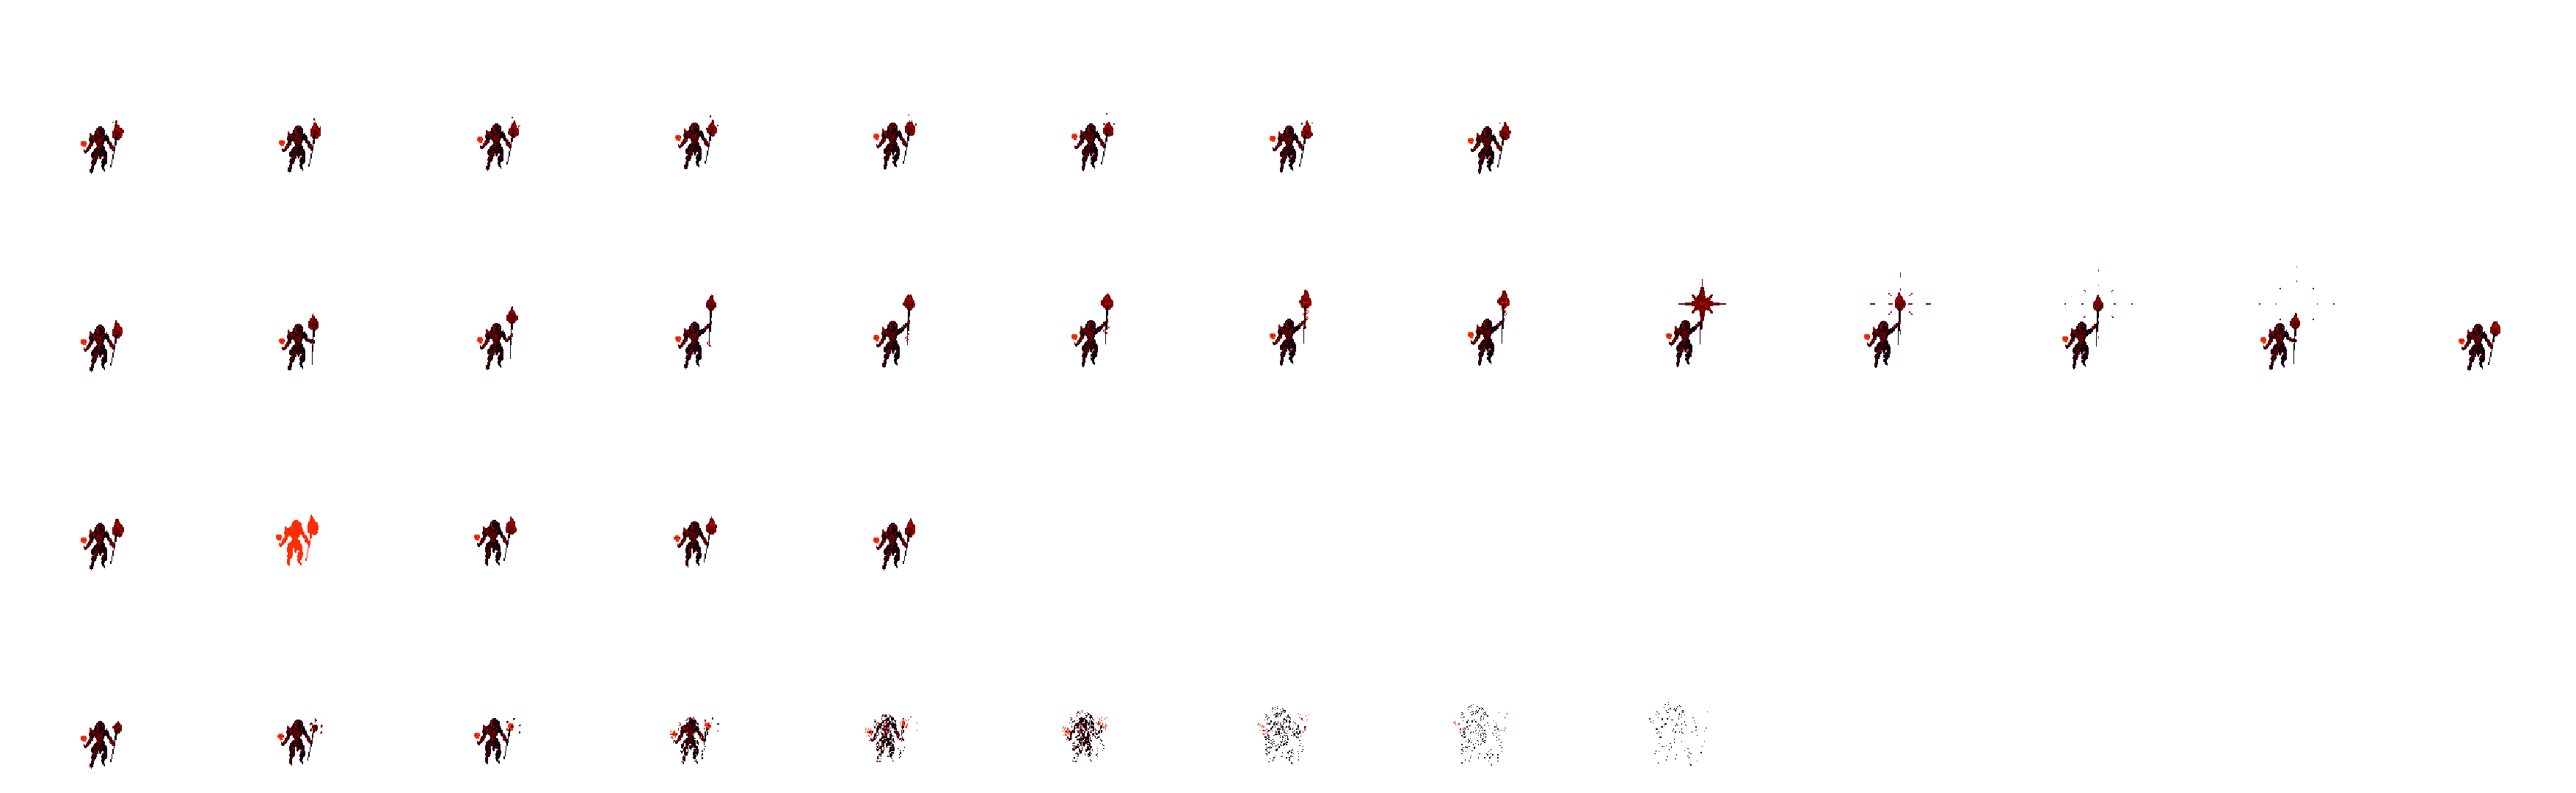
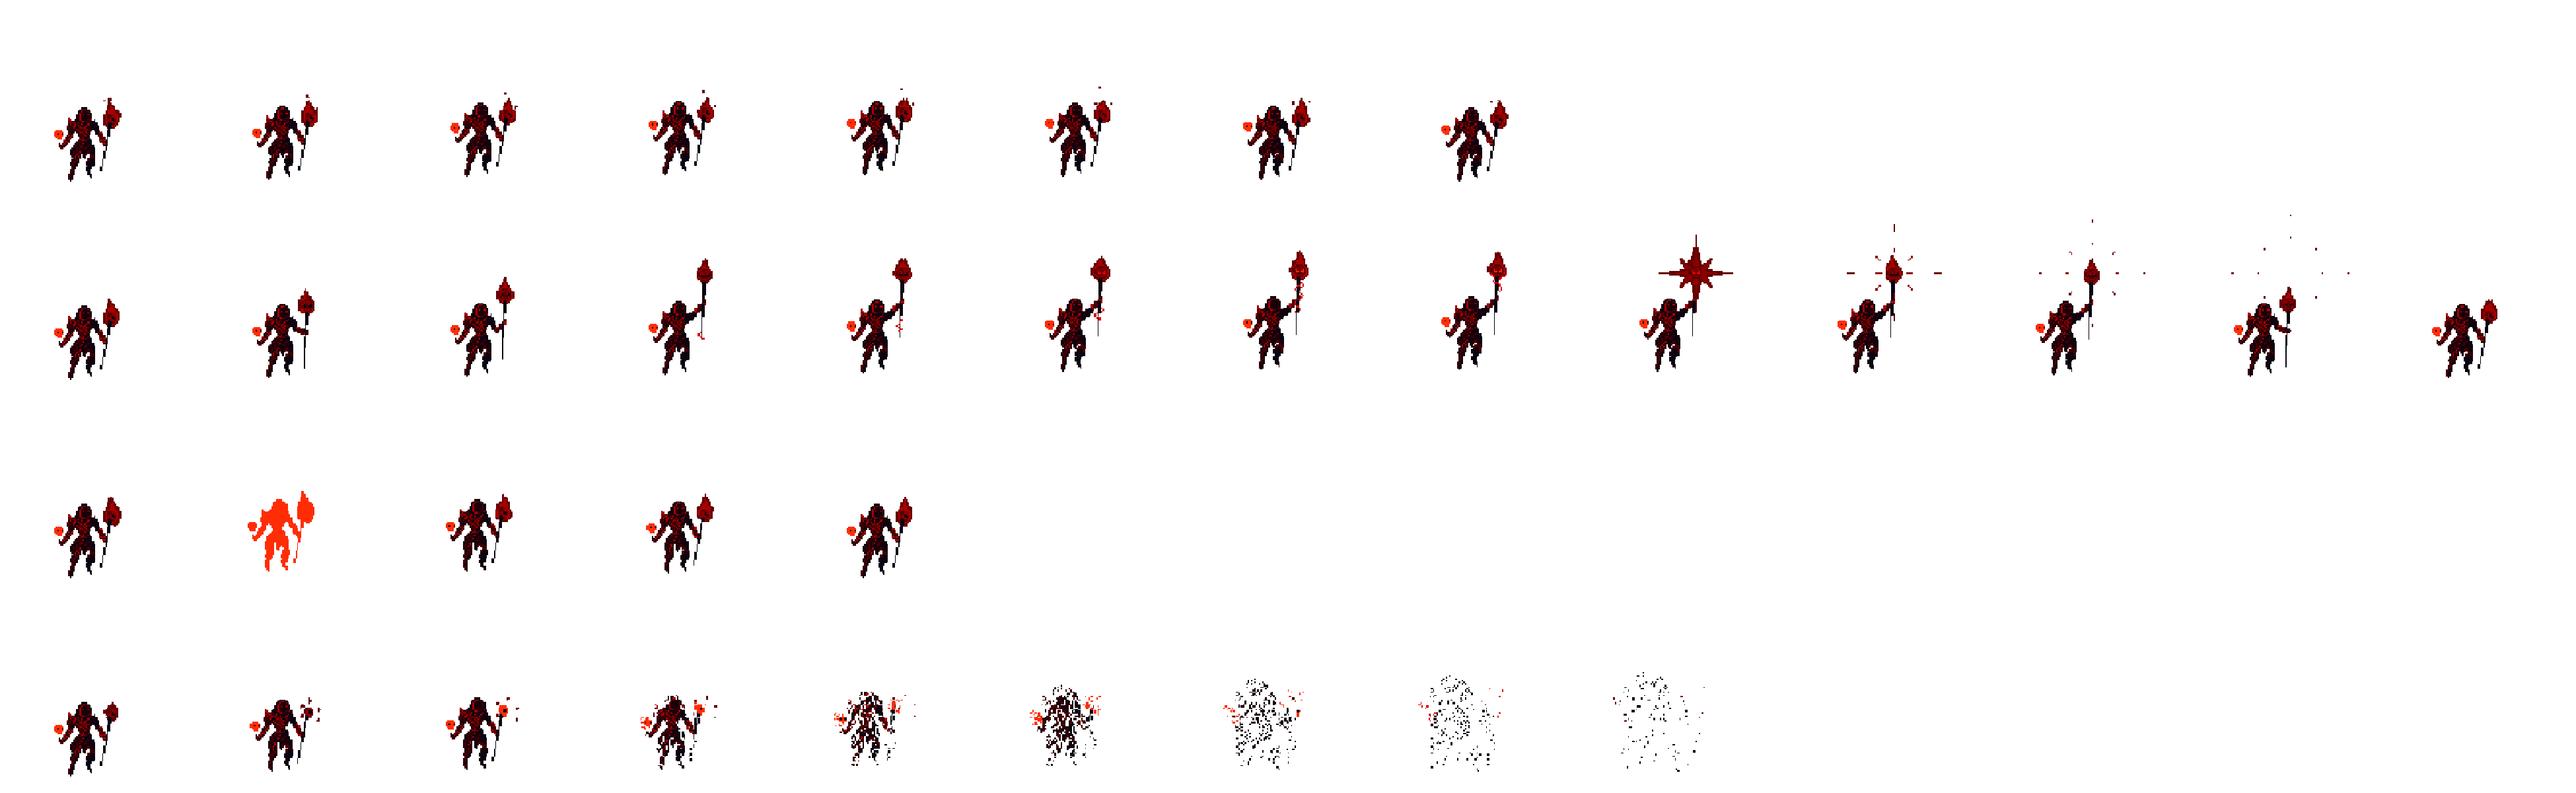
feat(inimigos): novas variantes Frost/Void Darkus e padroniza sheets de combate em 300x300
Adiciona dois recolors do Necromancer como novos bosses e unifica o
tamanho de frame de todas as sheets de combate.

Bosses novos:
- Frost Darkus (branco/azul) e Void Darkus (roxo), montados a partir do
  Necromancer/Thead Darkus em células 300x300, 4 fileiras
  (IDLE/ATTACK/HURT/DEATH).
- Registra WHITE_NECROMANCER e PURPLE_NECROMANCER no Bestiary.
- Liga highFightPoint -> Frost Darkus e leftFightPoint -> Void Darkus
  no GameInstances (via SpecEncounterManifest).

Padronização de frames (300x300, layout 13x4, offsets 0/300/600/900):
- Regenera BlueMageMoveset.png, Thead Darkus.png e
  Necromancer_creativekind-Sheet.png no novo formato.
- Atualiza os specs THEAD_DARKUS, NECROMANCER e o combat form do player
  (BlueMageMoveset) para célula 300x300.
- Player e Necromancer passam a renderizar maiores em combate
  (célula antes 128 e 160x128); combatFormSize ficou sem uso.

Novos assets: Thead Darkus White.png, Thead Darkus Purple.png.

diff --git a/TheFlameRealmJava/core/src/main/java/com/flamerealm/game/characters/Bestiary.java b/TheFlameRealmJava/core/src/main/java/com/flamerealm/game/characters/Bestiary.java
@@ -18,13 +18,63 @@ public final class Bestiary {
 
     private static final String NECROMANCER_SHEET = "Images/Characters/Boss/Necromancer_creativekind-Sheet.png";
     private static final String THEAD_DARKUS_SHEET = "Images/Characters/Boss/Thead Darkus.png";
+    private static final String WHITE_NECROMANCER_SHEET = "Images/Characters/Boss/Thead Darkus White.png";
+    private static final String PURPLE_NECROMANCER_SHEET = "Images/Characters/Boss/Thead Darkus Purple.png";
 
     public static final EnemySpec THEAD_DARKUS = new EnemySpec("Thead Darkus", 400,
-            new CombatBodySpec(new Vector2(0, SCREEN_HEIGHT * 0.3f), Map.of(
-                    AnimState.IDLE, new AnimationSpec(THEAD_DARKUS_SHEET, 8, new GridPoint2(270, 270), 0.12f, new GridPoint2(0, 0)),
-                    AnimState.ATTACK, new AnimationSpec(THEAD_DARKUS_SHEET, 13, new GridPoint2(270, 270), 0.2f, new GridPoint2(0, 270)),
-                    AnimState.HURT, new AnimationSpec(THEAD_DARKUS_SHEET, 5, new GridPoint2(270, 270), 0.2f, new GridPoint2(0, 540)),
-                    AnimState.DEATH, new AnimationSpec(THEAD_DARKUS_SHEET, 9, new GridPoint2(270, 270), 0.175f, new GridPoint2(0, 810))
+            new CombatBodySpec(new Vector2(0, SCREEN_HEIGHT * 0.28f), Map.of(
+                    AnimState.IDLE, new AnimationSpec(THEAD_DARKUS_SHEET, 8, new GridPoint2(300, 300), 0.12f, new GridPoint2(0, 0)),
+                    AnimState.ATTACK, new AnimationSpec(THEAD_DARKUS_SHEET, 13, new GridPoint2(300, 300), 0.2f, new GridPoint2(0, 300)),
+                    AnimState.HURT, new AnimationSpec(THEAD_DARKUS_SHEET, 5, new GridPoint2(300, 300), 0.2f, new GridPoint2(0, 600)),
+                    AnimState.DEATH, new AnimationSpec(THEAD_DARKUS_SHEET, 9, new GridPoint2(300, 300), 0.175f, new GridPoint2(0, 900))
+            )),
+            List.of(
+                    new BossAttackSpec("Flamelash", 10, 70, 3,
+                            new AnimationSpec("Images/Attacks/Boss/Flamelash.png", 45, new GridPoint2(100, 100), 0.6f),
+                            new Vector2(SCREEN_WIDTH * 0.82f, SCREEN_HEIGHT * 0.5f)),
+                    new BossAttackSpec("Fire Soul", 40, 80, 3,
+                            new AnimationSpec("Images/Attacks/Boss/Fire Soul.png", 60, new GridPoint2(50, 50), 0.7f),
+                            new Vector2(SCREEN_WIDTH * 0.84f, SCREEN_HEIGHT * 0.55f)),
+                    new BossAttackSpec("Elden Ring", 30, 90, 4,
+                            new AnimationSpec("Images/Attacks/Boss/Elden Ring.png", 60, new GridPoint2(40, 40), 0.9f),
+                            new Vector2(SCREEN_WIDTH * 0.848f, SCREEN_HEIGHT * 0.55f)),
+                    new BossAttackSpec("Dark Vortex", 100, 100, 1,
+                            new AnimationSpec("Images/Attacks/Boss/Dark Vortex.png", 61, new GridPoint2(128, 128), 0.2f),
+                            new Vector2(SCREEN_WIDTH * 0.8f, SCREEN_HEIGHT * 0.45f))
+            ));
+
+    // Recolor branco/azul do Necromancer (sheet remontada em celulas 300x300,
+    // 4 fileiras: IDLE/ATTACK/HURT/DEATH). Mesmo moveset do Thead Darkus.
+    public static final EnemySpec WHITE_NECROMANCER = new EnemySpec("Frost Darkus", 400,
+            new CombatBodySpec(new Vector2(0, SCREEN_HEIGHT * 0.28f), Map.of(
+                    AnimState.IDLE, new AnimationSpec(WHITE_NECROMANCER_SHEET, 8, new GridPoint2(300, 300), 0.12f, new GridPoint2(0, 0)),
+                    AnimState.ATTACK, new AnimationSpec(WHITE_NECROMANCER_SHEET, 13, new GridPoint2(300, 300), 0.2f, new GridPoint2(0, 300)),
+                    AnimState.HURT, new AnimationSpec(WHITE_NECROMANCER_SHEET, 5, new GridPoint2(300, 300), 0.2f, new GridPoint2(0, 600)),
+                    AnimState.DEATH, new AnimationSpec(WHITE_NECROMANCER_SHEET, 9, new GridPoint2(300, 300), 0.175f, new GridPoint2(0, 900))
+            )),
+            List.of(
+                    new BossAttackSpec("Flamelash", 10, 70, 3,
+                            new AnimationSpec("Images/Attacks/Boss/Flamelash.png", 45, new GridPoint2(100, 100), 0.6f),
+                            new Vector2(SCREEN_WIDTH * 0.82f, SCREEN_HEIGHT * 0.5f)),
+                    new BossAttackSpec("Fire Soul", 40, 80, 3,
+                            new AnimationSpec("Images/Attacks/Boss/Fire Soul.png", 60, new GridPoint2(50, 50), 0.7f),
+                            new Vector2(SCREEN_WIDTH * 0.84f, SCREEN_HEIGHT * 0.55f)),
+                    new BossAttackSpec("Elden Ring", 30, 90, 4,
+                            new AnimationSpec("Images/Attacks/Boss/Elden Ring.png", 60, new GridPoint2(40, 40), 0.9f),
+                            new Vector2(SCREEN_WIDTH * 0.848f, SCREEN_HEIGHT * 0.55f)),
+                    new BossAttackSpec("Dark Vortex", 100, 100, 1,
+                            new AnimationSpec("Images/Attacks/Boss/Dark Vortex.png", 61, new GridPoint2(128, 128), 0.2f),
+                            new Vector2(SCREEN_WIDTH * 0.8f, SCREEN_HEIGHT * 0.45f))
+            ));
+
+    // Recolor roxo do Necromancer (base de cor: Thead Darkus.png rotacionada p/ roxo).
+    // Mesma sheet 300x300 / 4 fileiras do WHITE_NECROMANCER; mesmo moveset.
+    public static final EnemySpec PURPLE_NECROMANCER = new EnemySpec("Void Darkus", 400,
+            new CombatBodySpec(new Vector2(0, SCREEN_HEIGHT * 0.28f), Map.of(
+                    AnimState.IDLE, new AnimationSpec(PURPLE_NECROMANCER_SHEET, 8, new GridPoint2(300, 300), 0.12f, new GridPoint2(0, 0)),
+                    AnimState.ATTACK, new AnimationSpec(PURPLE_NECROMANCER_SHEET, 13, new GridPoint2(300, 300), 0.2f, new GridPoint2(0, 300)),
+                    AnimState.HURT, new AnimationSpec(PURPLE_NECROMANCER_SHEET, 5, new GridPoint2(300, 300), 0.2f, new GridPoint2(0, 600)),
+                    AnimState.DEATH, new AnimationSpec(PURPLE_NECROMANCER_SHEET, 9, new GridPoint2(300, 300), 0.175f, new GridPoint2(0, 900))
             )),
             List.of(
                     new BossAttackSpec("Flamelash", 10, 70, 3,
@@ -42,11 +92,11 @@ public final class Bestiary {
             ));
 
     public static final EnemySpec NECROMANCER = new EnemySpec("Necromancer", 400,
-            new CombatBodySpec(new Vector2(0, SCREEN_HEIGHT * 0.3f), Map.of(
-                    AnimState.IDLE, new AnimationSpec(NECROMANCER_SHEET, 8, new GridPoint2(160, 128), 0.18f, new GridPoint2(0, 0)),
-                    AnimState.ATTACK, new AnimationSpec(NECROMANCER_SHEET, 13, new GridPoint2(160, 128), 0.2f, new GridPoint2(0, 256)),
-                    AnimState.HURT, new AnimationSpec(NECROMANCER_SHEET, 5, new GridPoint2(160, 128), 0.2f, new GridPoint2(0, 640)),
-                    AnimState.DEATH, new AnimationSpec(NECROMANCER_SHEET, 9, new GridPoint2(160, 128), 0.175f, new GridPoint2(0, 768))
+            new CombatBodySpec(new Vector2(0, SCREEN_HEIGHT * 0.28f), Map.of(
+                    AnimState.IDLE, new AnimationSpec(NECROMANCER_SHEET, 8, new GridPoint2(300, 300), 0.12f, new GridPoint2(0, 0)),
+                    AnimState.ATTACK, new AnimationSpec(NECROMANCER_SHEET, 13, new GridPoint2(300, 300), 0.2f, new GridPoint2(0, 300)),
+                    AnimState.HURT, new AnimationSpec(NECROMANCER_SHEET, 5, new GridPoint2(300, 300), 0.2f, new GridPoint2(0, 600)),
+                    AnimState.DEATH, new AnimationSpec(NECROMANCER_SHEET, 9, new GridPoint2(300, 300), 0.175f, new GridPoint2(0, 900))
             )),
             List.of(
                     new BossAttackSpec("Soul Flame", 10, 70, 3,

diff --git a/TheFlameRealmJava/core/src/main/java/com/flamerealm/game/instances/GameInstances.java b/TheFlameRealmJava/core/src/main/java/com/flamerealm/game/instances/GameInstances.java
@@ -271,15 +271,15 @@ public class GameInstances {
         playerObject = new CharacterEntity(playerSpriteUp, playerMoveFrames, playerSize, playerPosition, playerOffset);
 
         // Player usando o BlueMageMoveset (recolor do Necromancer sheet) com moveset completo.
-        // Celula 128x128 = mesmo modelo do BlueMageGuardian original (combatFormSize);
-        // as fileiras da sheet seguem o layout do Necromancer (IDLE/ATTACK/HURT/DEATH).
+        // Sheet padronizada em celulas 300x300 / 4 fileiras (IDLE/ATTACK/HURT/DEATH),
+        // igual as variantes White/Purple/Thead/Necromancer.
         String playerSheet = "Images/Characters/Player/BlueMageMoveset.png";
-        GridPoint2 playerCell = combatFormSize;
+        GridPoint2 playerCell = new GridPoint2(300, 300);
         CombatBodySpec playerBody = new CombatBodySpec(combatFormPosition, Map.of(
                 AnimState.IDLE, new AnimationSpec(playerSheet, 8, playerCell, 0.12f, new GridPoint2(0, 0)),
-                AnimState.ATTACK, new AnimationSpec(playerSheet, 13, playerCell, 0.2f, new GridPoint2(0, 256)),
-                AnimState.HURT, new AnimationSpec(playerSheet, 5, playerCell, 0.2f, new GridPoint2(0, 640)),
-                AnimState.DEATH, new AnimationSpec(playerSheet, 9, playerCell, 0.175f, new GridPoint2(0, 768))));
+                AnimState.ATTACK, new AnimationSpec(playerSheet, 13, playerCell, 0.2f, new GridPoint2(0, 300)),
+                AnimState.HURT, new AnimationSpec(playerSheet, 5, playerCell, 0.2f, new GridPoint2(0, 600)),
+                AnimState.DEATH, new AnimationSpec(playerSheet, 9, playerCell, 0.175f, new GridPoint2(0, 900))));
         playerCombatForm = new PlayerCombatForm(playerBody.position(), playerBody.buildClips(assets),
                 playerHp, playerAtkList, playerMana);
 
@@ -288,13 +288,15 @@ public class GameInstances {
 
         EncounterManifest theadDarkusManifest = new SpecEncounterManifest(Bestiary.THEAD_DARKUS);
         EncounterManifest necromancerManifest = new SpecEncounterManifest(Bestiary.NECROMANCER);
+        EncounterManifest whiteNecromancerManifest = new SpecEncounterManifest(Bestiary.WHITE_NECROMANCER);
+        EncounterManifest purpleNecromancerManifest = new SpecEncounterManifest(Bestiary.PURPLE_NECROMANCER);
 
         startPoint = new FightPoint(new Vector2(downPoint), Arrays.asList("UP"), false, null);
         centralFightPoint = new FightPoint(new Vector2(centralPoint), Arrays.asList("UP", "DOWN", "LEFT", "RIGHT"),
-                true, theadDarkusManifest);
-        rightFightPoint = new FightPoint(new Vector2(rightPoint), Arrays.asList("LEFT"), true, necromancerManifest);
-        leftFightPoint = new FightPoint(new Vector2(leftPoint), Arrays.asList("RIGHT"), true, theadDarkusManifest);
-        highFightPoint = new FightPoint(new Vector2(highPoint), Arrays.asList("DOWN"), true, theadDarkusManifest);
+                true, necromancerManifest);
+        rightFightPoint = new FightPoint(new Vector2(rightPoint), Arrays.asList("LEFT"), true, theadDarkusManifest);
+        leftFightPoint = new FightPoint(new Vector2(leftPoint), Arrays.asList("RIGHT"), true, purpleNecromancerManifest);
+        highFightPoint = new FightPoint(new Vector2(highPoint), Arrays.asList("DOWN"), true, whiteNecromancerManifest);
 
         List<FightPoint> gameMapPoints = Arrays.asList(startPoint, centralFightPoint, rightFightPoint, leftFightPoint, highFightPoint);
         gameMap = new GameMap(gameMapImage, gameMapPoints, tolerance);

diff --git a/TheFlameRealmJava/core/src/main/java/com/flamerealm/game/GameConstants.java b/TheFlameRealmJava/core/src/main/java/com/flamerealm/game/GameConstants.java
@@ -117,7 +117,7 @@ public final class GameConstants {
     public static final float playerOffset = 0.1f;
 
     // 4.4 Positions (top-left of the images)
-    public static final Vector2 combatFormPosition = new Vector2(SCREEN_WIDTH * 0.8f, SCREEN_HEIGHT * 0.5f);
+    public static final Vector2 combatFormPosition = new Vector2(SCREEN_WIDTH * 0.7f, SCREEN_HEIGHT * 0.28f);
     public static final Vector2 playerPosition = new Vector2(SCREEN_WIDTH / 2f - playerSize.x / 2f, SCREEN_HEIGHT / 2f - playerSize.y / 2f);
 
     // 5 - Attacks parameters